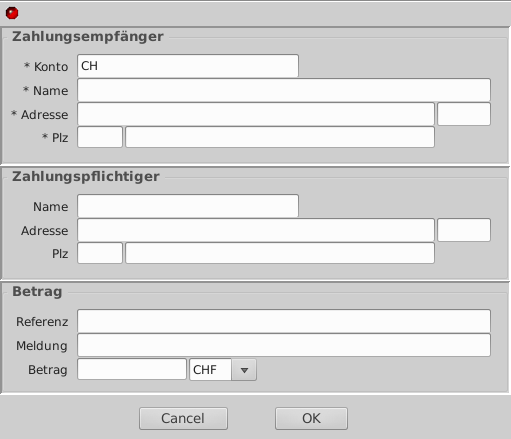
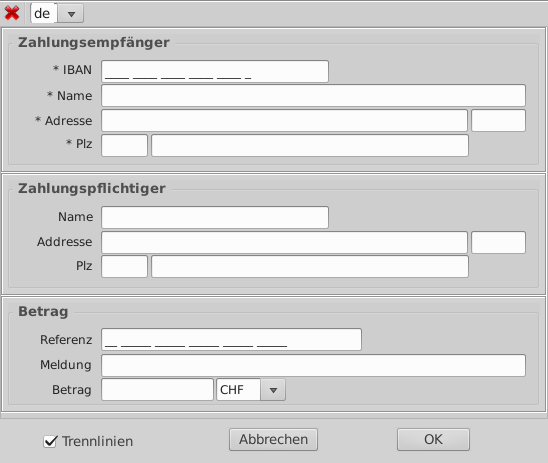
1.0.0.3

Changed region(s): [[0.0, 0.0, 1.0, 0.9772]]

diff --git a/README.md b/README.md
@@ -10,14 +10,15 @@
 [![Release version](https://img.shields.io/github/v/release/unattended-ch/einzahlungsschein?label=&style=for-the-badge)](https://github.com/unattended-ch/einzahlungsschein/releases/latest)
 [![Downloads](https://img.shields.io/github/downloads/unattended-ch/einzahlungsschein/total?style=for-the-badge&color=blue)](https://github.com/unattended-ch/einzahlungsschein/releases/latest)
 
-[![Windows](https://img.shields.io/badge/-Windows_x64-blue.svg?style=for-the-badge&logo=windows)](https://github.com/unattended-ch/einzahlungsschein/releases/latest/download/qrcode_1.0.0.1-win64.exe)
-[![Ubuntu](https://img.shields.io/badge/-Ubuntu_x64-brightgreen.svg?style=for-the-badge&logo=linux)](https://github.com/unattended-ch/einzahlungsschein/releases/latest/download/qrcode_1.0.0.1-amd64.deb)
-[![MacOS](https://img.shields.io/badge/-MacOS_x64-lightblue.svg?style=for-the-badge&logo=apple)](https://github.com/unattended-ch/einzahlungsschein/releases/latest/download/qrcode_1.0.0.1-mac64.dmg)
+[![Windows](https://img.shields.io/badge/-Windows_x64-blue.svg?style=for-the-badge&logo=windows)](https://github.com/unattended-ch/einzahlungsschein/releases/latest/download/qrcode_1.0.0.3-win64.exe)
+[![Ubuntu](https://img.shields.io/badge/-Ubuntu_x64-brightgreen.svg?style=for-the-badge&logo=linux)](https://github.com/unattended-ch/einzahlungsschein/releases/latest/download/qrcode_1.0.0.3-amd64.deb)
+[![MacOS](https://img.shields.io/badge/-MacOS_x64-lightblue.svg?style=for-the-badge&logo=apple)](https://github.com/unattended-ch/einzahlungsschein/releases/latest/download/qrcode_1.0.0.3-mac64.dmg)
 
-[![my way](https://img.shields.io/badge/-vide_alios_et_bene_quod_opus_est_cogitare-navy.svg?style=for-the-badge)](https://www.google.ch/search?q=%22vide+alios+et+bene+quod+opus+est+cogitare%22+translate)
+[![my way](https://img.shields.io/badge/-vincit_omnia_veritas-navy.svg?style=for-the-badge)](https://www.google.ch/search?q=%22vincit+omnia+veritas%22+translate)
 
 
     Kompiliert mit Lazarus für Ubuntu, MacOS und Windows
+
 
 
 </div>
@@ -45,7 +46,7 @@
 <a name="description"></a>
 ### :mag: Beschreibung
 
-   `qrcode [--swisspay] [--konto=N|--adresse=filename.txt] [--jpg] [--print]<Enter>`
+   `qrcode [--swisspay] [--konto=N|--adresse=filename.txt] [--admin] [--jpg] [--print]<Enter>`
 
    `qrcode [--vcard|wifi|calendar|url|email|phone|sms|geo|youtube]<Enter>`
 
@@ -56,6 +57,7 @@ Parameter|Beschreibung
 `--swissppay`|Einzahlungsschein Formular öffnen
 `--konto=N`|Empfängerkonto auswählen
 `--adresse=filename.txt`|Zahlungspflichtige und Empfängerkonto aus Datei lesen
+`--admin`|Konten speichern aktivieren
 `--jpg`|JPG-Datei erstellen
 `--print`|Einzahlungsschein ausdrucken
 
@@ -86,41 +88,63 @@ Mit den Parametern `--jpg` und/oder `--print` werden die Daten automatisch verar
 Es ist `KEINE Internetverbindung notwendig` zum erzeugen der Einzahlungsscheine.
 
 Linux Daten Verzeichnis `~/qrcode/EZ/` für gespeicherte Einzahlungsscheine.<br>
+MacOS Daten Verzeichnis `~/qrcode/EZ/` für gespeicherte Einzahlungsscheine.<br>
 Windows Daten Verzeichnis `%APPDATA%\qrcode\EZ\` für gespeicherte Einzahlungsscheine.
 
 Linux Konfigdatei `~/qrcode/qrcode.conf`<br>
+MacOS Konfigdatei `~/qrcode/qrcode.conf`<br>
 Windows Registry `HKCU\Software\unattended.ch\QRcode`
 
    [goto TOC](#toc)
 
 <a name="windows"></a>
 ## WINDOWS
+<div align="center">
+
+![Main Page](res/master-window.png)
+
+[Link : QRCODE Lizenz bestellen](https://unattended.ch/?page_id=1935)
+
+</div>
+
 ### :computer: Einzahlungsschein Eingabe (Unlizensiert)
 <div align="center">
 
-![Main Page](/res/main-window.png)
+![Main Page](res/main-window.png)
 
 </div>
 
 :heavy_exclamation_mark: `Mit der Unlizensierten-Version müssen die Daten manuell eingegeben werden.`
 
-   [goto TOC](#toc)
+   - Nach der Eingabe der IBAN wird die Farbe des Feldes verändert<br>
+     <span style="color:green">GRÜN</span>=IBAN korrekt<br>
+     <span style="color:red">ROT&nbsp;&nbsp;&nbsp;</span>=IBAN Fehlerhaft<br>
+   - Nach Eingabe der Referenz wird die Farbe des Feldes verändert<br>
+     <span style="color:green">GRÜN</span>=Referenz korrekt<br>
+     <span style="color:red">ROT&nbsp;&nbsp;&nbsp;</span>=Referenz fehlerhaft<br>
 
+    - <OK>-Taste erstellt den Einzahlungsschein
+    - <Abbrechen>-Taste Fenster schliessen
+   
+    - Es können 4 Sprachen ausgewählt werden en,de,fr,it
+      In diesen Sprachen kann der Einzahlungsschein erstellt werden.
+
+   [goto TOC](#toc)
 
 <a name="paywindow"></a>
 ### :computer: Einzahlungsschein
 <div align="center">
 
-![Main Page](/res/pay-window.png)
+![Main Page](res/pay-window.png)
 
-![Main Page](/res/pay1-window.png)
-![Main Page](/res/pay2-window.png)
+![Main Page](res/pay1-window.png)
+![Main Page](res/pay2-window.png)
 
-![Save](/res/save.ico) Speichern 
-![Clip](/res/clip.png) Zwischenablage 
-![Print](/res/printer.png) Drucken 
-![Setup](/res/print-setup.png) Setup 
-![Exit](/res/exit1.bmp) Beenden
+![Save](res/save.ico) Speichern 
+![Clip](res/clip.png) Zwischenablage 
+![Print](res/printer.png) Drucken 
+![Setup](res/print-setup.png) Setup 
+![Exit](res/exit1.bmp) Beenden
 
 </div>
 
@@ -133,17 +157,32 @@ Windows Registry `HKCU\Software\unattended.ch\QRcode`
 
 <div align="center">
 
-![Full Page](/res/full-window.png)
+![Full Page](res/full-window.png)
 
 </div>
 
-    - Die Kontodaten eintragen und <Speichern> drücken.
+  `Zahlungsempfänger speichern`
+
+    - Die Zahlungsempfänger Kontodaten eintragen und <Speichern> drücken.
     - Danach wird das Konto automatisch in die Auswahlliste geladen
       und kann über diese ausgewählt werden.
     - Es können maximal 8 Konten gespeichert werden.
     - Über die Kommandozeile kann man das Konto mit --konto=N (1=Eins,2=Zwei...) auswählen.
 
-   [goto TOC](#toc)
+   - Nach der Eingabe der IBAN wird die Farbe des Feldes verändert<br>
+     <span style="color:green">GRÜN</span>=IBAN korrekt<br>
+     <span style="color:red">ROT&nbsp;&nbsp;&nbsp;</span>=IBAN Fehlerhaft<br>
+   - Nach Eingabe der Referenz wird die Farbe des Feldes verändert<br>
+     <span style="color:green">GRÜN</span>=Referenz korrekt<br>
+     <span style="color:red">ROT&nbsp;&nbsp;&nbsp;</span>=Referenz fehlerhaft<br>
+
+    - <OK>-Taste erstellt den Einzahlungsschein
+    - <Abbrechen>-Taste Fenster schliessen
+  
+    - Es können 4 Sprachen ausgewählt werden en,de,fr,it
+      In diesen Sprachen kann der Einzahlungsschein erstellt werden.
+
+[goto TOC](#toc)
 
 <a name="adresses"></a>
 ### :wrench: Adressen (Lizensiert)
@@ -181,7 +220,7 @@ Musterstrasse
 87
 4000
 Basel
-Referenz
+00 00000 00000 00000 00000 00000
 Bemerkung
 CHF
 1500.00
@@ -192,7 +231,7 @@ Musterstrasse
 22
 4000
 Basel
-Referenz
+00 00000 00000 00000 00000 00000
 Bemerkung
 CHF
 999.00
@@ -215,11 +254,16 @@ CHF
 ### :dvd: Download
 <div align="center">
 
-[![Windows](https://img.shields.io/badge/-Windows_x64-blue.svg?style=for-the-badge&logo=windows)](https://github.com/unattended-ch/einzahlungsschein/releases/latest/download/qrcode_1.0.0.1-win64.exe)
-[![Ubuntu](https://img.shields.io/badge/-Ubuntu_x64-brightgreen.svg?style=for-the-badge&logo=linux)](https://github.com/unattended-ch/einzahlungsschein/releases/latest/download/qrcode_1.0.0.1-amd64.deb)
-[![MacOS](https://img.shields.io/badge/-MacOS_x64-lightblue.svg?style=for-the-badge&logo=apple)](https://github.com/unattended-ch/einzahlungsschein/releases/latest/download/qrcode_1.0.0.1-mac64.dmg)
+[![Windows](https://img.shields.io/badge/-Windows_x64-blue.svg?style=for-the-badge&logo=windows)](https://github.com/unattended-ch/einzahlungsschein/releases/latest/download/qrcode_1.0.0.3-win64.exe)
+[![Ubuntu](https://img.shields.io/badge/-Ubuntu_x64-brightgreen.svg?style=for-the-badge&logo=linux)](https://github.com/unattended-ch/einzahlungsschein/releases/latest/download/qrcode_1.0.0.3-amd64.deb)
+[![MacOS](https://img.shields.io/badge/-MacOS_x64-lightblue.svg?style=for-the-badge&logo=apple)](https://github.com/unattended-ch/einzahlungsschein/releases/latest/download/qrcode_1.0.0.3-mac64.dmg)
 
 </div>
+
+### Einzelnachweise
+[Wikipedia QR-Rechnung](https://de.wikipedia.org/wiki/QR-Rechnung)<br>
+[Wikipedia QR-Code](https://de.wikipedia.org/wiki/QR_code)<br>
+[SIX Style Guide](https://www.paymentstandards.ch/dam/downloads/style-guide-de.pdf)
 
    [goto TOC](#toc)
 
